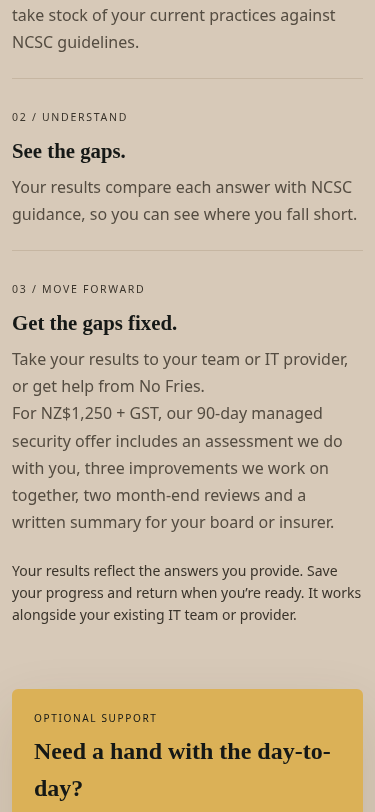
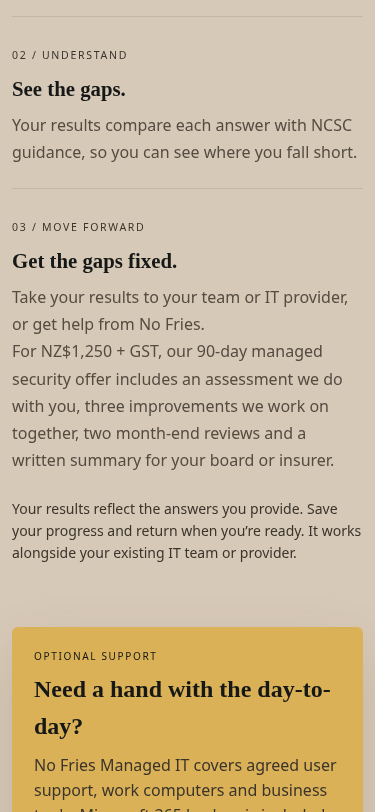
Give the managed security offer room at enlarged text sizes

diff --git a/index.html b/index.html
@@ -107,8 +107,9 @@
                 <ol class="homepage-benefit-grid" aria-label="Dashboard benefits">
                     <li><span class="homepage-benefit-number" aria-hidden="true">01 / ASSESS</span><h3>Know where you stand.</h3><p>A guided cyber security assessment helps you take stock of your current practices against NCSC guidelines.</p></li>
                     <li><span class="homepage-benefit-number" aria-hidden="true">02 / UNDERSTAND</span><h3>See the gaps.</h3><p>Your results compare each answer with NCSC guidance, so you can see where you fall short.</p></li>
-                    <li><span class="homepage-benefit-number" aria-hidden="true">03 / MOVE FORWARD</span><h3>Get the gaps fixed.</h3><p>Take your results to your team or IT provider, or get help from No Fries.</p><p>For NZ$1,250 + GST, our <a href="/pricing.html#pricing-pilot">90-day managed security offer</a> includes an assessment we do with you, three improvements we work on together, two month-end reviews and a written summary for your board or insurer.</p></li>
+                    <li><span class="homepage-benefit-number" aria-hidden="true">03 / MOVE FORWARD</span><h3>Get the gaps fixed.</h3><p>Take your results to your team or IT provider, or get help from No Fries.</p></li>
                 </ol>
+                <p>For NZ$1,250 + GST, our <a href="/pricing.html#pricing-pilot">90-day managed security offer</a> includes an assessment we do with you, three improvements we work on together, two month-end reviews and a written summary for your board or insurer.</p>
                 <p class="homepage-assessment-note">Your results reflect the answers you provide. Save your progress and return when you’re ready. It works alongside your existing IT team or provider.</p>
             </section>
             <section class="gateway-other-services" id="other-services" aria-labelledby="other-services-title">
